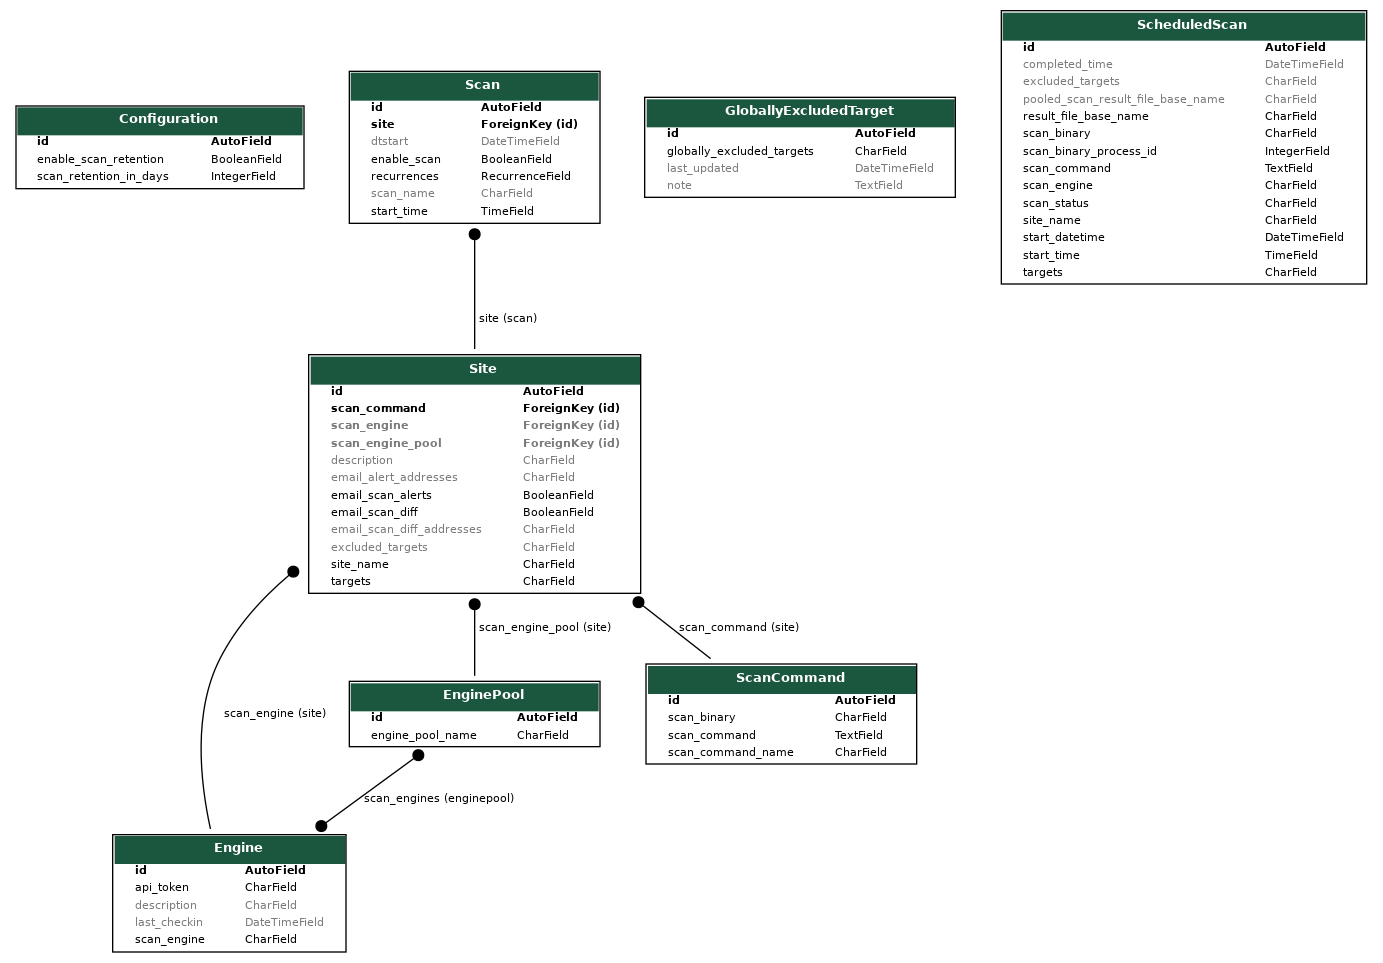
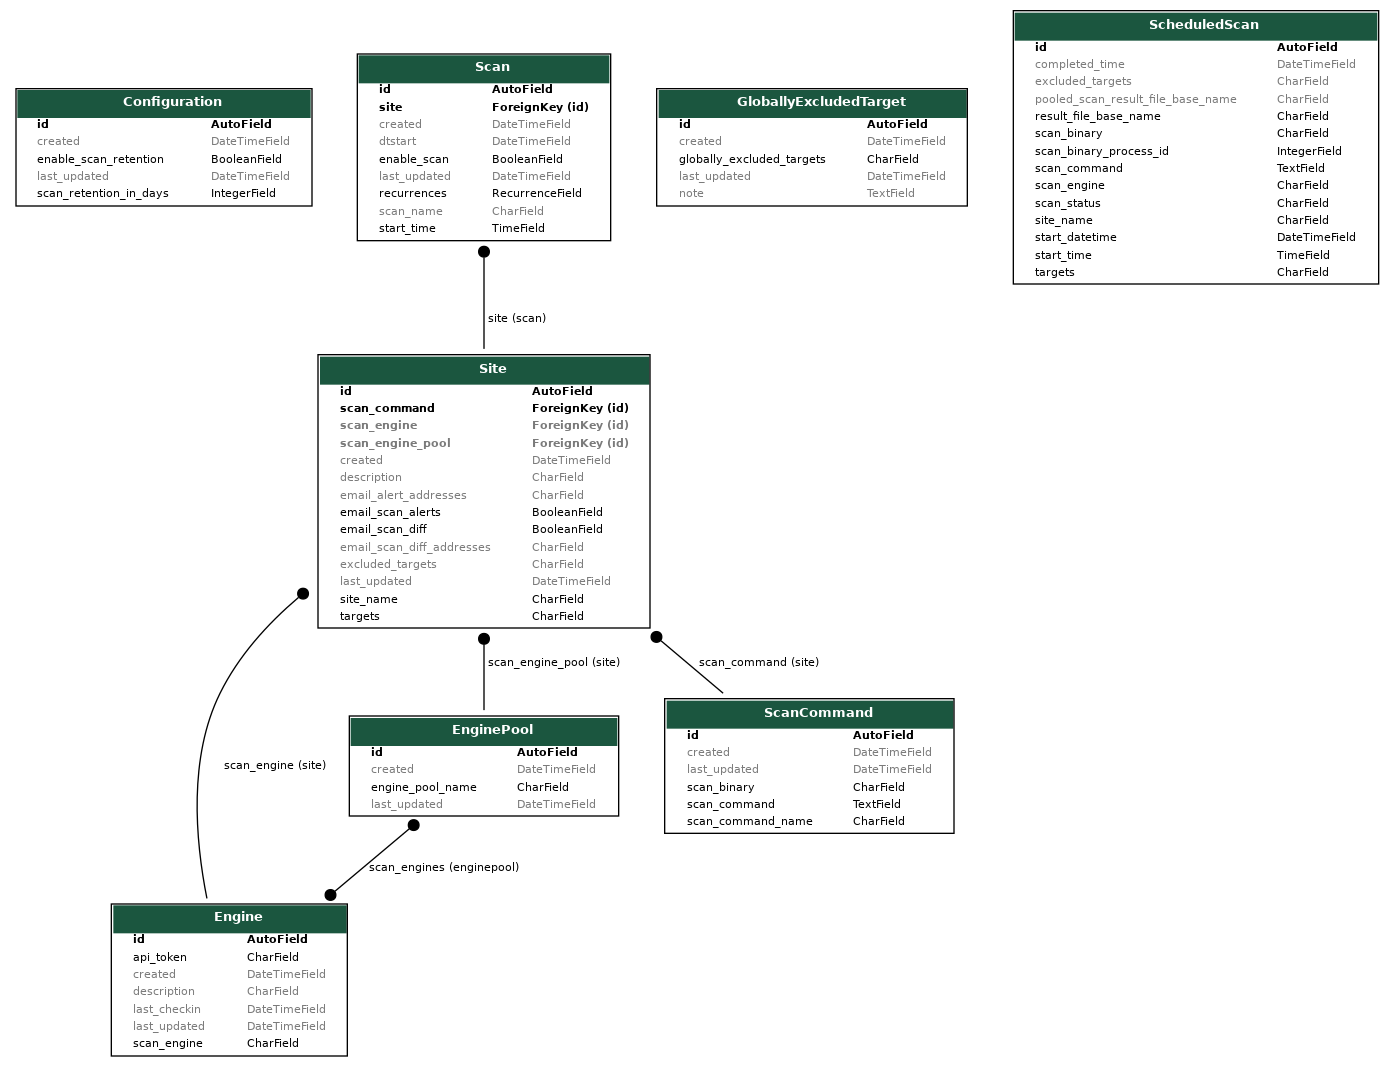
Added created and last_updated fields to most models

Changed region(s): [[0.0, 0.0312, 0.684, 0.9969], [0.4664, 0.0, 0.9949, 0.3115], [0.1555, 0.6231, 0.1866, 0.6542]]

diff --git a/console/django_scantron/models.py b/console/django_scantron/models.py
@@ -37,6 +37,8 @@ class Configuration(models.Model):
         verbose_name="Scan retention in days",
         help_text="The number of days to retain scan data, target files, and scan result files.",
     )
+    created = models.DateTimeField(auto_now_add=True)
+    last_updated = models.DateTimeField(auto_now=True, verbose_name="Last updated")
 
     class Meta:
         verbose_name_plural = "Configuration"
@@ -63,6 +65,8 @@ class Engine(models.Model):
     description = models.CharField(unique=False, max_length=255, blank=True, verbose_name="Engine Description")
     api_token = models.CharField(unique=True, max_length=40, blank=False, verbose_name="API Key")
     last_checkin = models.DateTimeField(blank=True, null=True, verbose_name="Last Engine Check In")
+    created = models.DateTimeField(auto_now_add=True)
+    last_updated = models.DateTimeField(auto_now=True, verbose_name="Last updated")
 
     def __str__(self):
         return str(self.scan_engine)
@@ -77,6 +81,8 @@ class EnginePool(models.Model):
     id = models.AutoField(primary_key=True, verbose_name="Engine Pool ID")
     engine_pool_name = models.CharField(unique=True, max_length=255, verbose_name="Engine Pool Name")
     scan_engines = models.ManyToManyField(Engine, verbose_name="Scan engines in pool")
+    created = models.DateTimeField(auto_now_add=True)
+    last_updated = models.DateTimeField(auto_now=True, verbose_name="Last updated")
 
     def __str__(self):
         return str(self.engine_pool_name)
@@ -94,7 +100,7 @@ class GloballyExcludedTarget(models.Model):
     # is changed.
     globally_excluded_targets = models.CharField(
         unique=False,
-        max_length=4194304,  # 2^22 = 4194304.  See note above if this value is changed.
+        max_length=4_194_304,  # 2^22 = 4194304.  See note above if this value is changed.
         validators=[
             RegexValidator(
                 regex="^[a-zA-Z0-9/\.\:\- ]*$",  # Characters to support IPv4, IPv6, and FQDNs only.  Space delimited.
@@ -104,6 +110,7 @@ class GloballyExcludedTarget(models.Model):
         verbose_name="Globally Excluded Targets",
     )
     note = models.TextField(unique=False, blank=True, verbose_name="Note")
+    created = models.DateTimeField(auto_now_add=True)
     last_updated = models.DateTimeField(auto_now=True, verbose_name="Last updated")
 
     def clean(self):
@@ -142,6 +149,8 @@ class ScanCommand(models.Model):
     scan_binary = models.CharField(max_length=7, choices=SCAN_BINARY, default="nmap", verbose_name="Scan binary")
     scan_command_name = models.CharField(unique=True, max_length=255, verbose_name="Scan command name")
     scan_command = models.TextField(unique=False, verbose_name="Scan command")
+    created = models.DateTimeField(auto_now_add=True)
+    last_updated = models.DateTimeField(auto_now=True, verbose_name="Last updated")
 
     def __str__(self):
         return f"{self.scan_binary}||{self.scan_command_name}"
@@ -171,7 +180,7 @@ class Site(models.Model):
     # is changed.
     targets = models.CharField(
         unique=False,
-        max_length=4194304,  # 2^22 = 4194304.  See note above if this value is changed.
+        max_length=4_194_304,  # 2^22 = 4194304.  See note above if this value is changed.
         validators=[
             RegexValidator(
                 regex="^[a-zA-Z0-9/\.\:\- ]*$",  # Characters to support IPv4, IPv6, and FQDNs only.  Space delimited.
@@ -186,7 +195,7 @@ class Site(models.Model):
     excluded_targets = models.CharField(
         unique=False,
         blank=True,
-        max_length=4194304,  # 2^22 = 4194304.  See note above if this value is changed.
+        max_length=4_194_304,  # 2^22 = 4194304.  See note above if this value is changed.
         validators=[
             RegexValidator(
                 regex="^[a-zA-Z0-9/\.\:\- ]*$",  # Characters to support IPv4, IPv6, and FQDNs only.  Space delimited.
@@ -210,6 +219,8 @@ class Site(models.Model):
     email_scan_diff_addresses = models.CharField(
         unique=False, blank=True, max_length=4096, verbose_name="Email nmap scan diff addresses, comma separated"
     )
+    created = models.DateTimeField(auto_now_add=True)
+    last_updated = models.DateTimeField(auto_now=True, verbose_name="Last updated")
 
     def clean(self):
         """Checks for any invalid IPs, IP subnets, or FQDNs in the targets and excluded_targets fields."""
@@ -288,6 +299,8 @@ class Scan(models.Model):
         null=True,
         verbose_name="dtstart is the seed datetime object for recurrences (automatically modifed)",
     )
+    created = models.DateTimeField(auto_now_add=True)
+    last_updated = models.DateTimeField(auto_now=True, verbose_name="Last updated")
 
     # dtstart is the seed datetime object when determining scan_scheduler.py's
     # scan_occurrences = scan.recurrences.between(beginning_of_today, end_of_today, dtstart=dtstart, inc=True),
@@ -362,7 +375,7 @@ class ScheduledScan(models.Model):
     # is changed.
     targets = models.CharField(
         unique=False,
-        max_length=4194304,  # 2^22 = 4194304.  See note above if this value is changed.
+        max_length=4_194_304,  # 2^22 = 4194304.  See note above if this value is changed.
         validators=[
             RegexValidator(
                 regex="^[a-zA-Z0-9/\.\: ]*$",  # Characters to support IPv4, IPv6, and FQDNs only.  Space delimited.
@@ -377,7 +390,7 @@ class ScheduledScan(models.Model):
     excluded_targets = models.CharField(
         unique=False,
         blank=True,
-        max_length=4194304,  # 2^22 = 4194304.  See note above if this value is changed.
+        max_length=4_194_304,  # 2^22 = 4194304.  See note above if this value is changed.
         validators=[
             RegexValidator(
                 regex="^[a-zA-Z0-9/\.\: ]*$",  # Characters to support IPv4, IPv6, and FQDNs only.  Space delimited.

diff --git a/console/django_scantron/api/serializers.py b/console/django_scantron/api/serializers.py
@@ -20,19 +20,19 @@ import email_validation_utils
 class ConfigurationSerializer(serializers.ModelSerializer):
     class Meta:
         model = Configuration
-        fields = ("id", "enable_scan_retention", "scan_retention_in_days")
+        fields = ("id", "enable_scan_retention", "scan_retention_in_days", "created", "last_updated")
 
 
 class EngineSerializer(serializers.ModelSerializer):
     class Meta:
         model = Engine
-        fields = ("id", "scan_engine", "description", "api_token", "last_checkin")
+        fields = ("id", "scan_engine", "description", "api_token", "last_checkin", "created", "last_updated")
 
 
 class EnginePoolSerializer(serializers.ModelSerializer):
     class Meta:
         model = EnginePool
-        fields = ("id", "engine_pool_name", "scan_engines")
+        fields = ("id", "engine_pool_name", "scan_engines", "created", "last_updated")
 
 
 class GloballyExcludedTargetSerializer(serializers.ModelSerializer):
@@ -62,18 +62,13 @@ class GloballyExcludedTargetSerializer(serializers.ModelSerializer):
 
     class Meta:
         model = GloballyExcludedTarget
-        fields = ("id", "globally_excluded_targets", "note", "last_updated")
+        fields = ("id", "globally_excluded_targets", "note", "created", "last_updated")
 
 
 class ScanCommandSerializer(serializers.ModelSerializer):
     class Meta:
         model = ScanCommand
-        fields = (
-            "id",
-            "scan_binary",
-            "scan_command_name",
-            "scan_command",
-        )
+        fields = ("id", "scan_binary", "scan_command_name", "scan_command", "created", "last_updated")
 
 
 class SiteSerializer(serializers.ModelSerializer):
@@ -164,24 +159,15 @@ class SiteSerializer(serializers.ModelSerializer):
             "email_alert_addresses",
             "email_scan_diff",
             "email_scan_diff_addresses",
+            "created",
+            "last_updated",
         )
 
 
 class ScanSerializer(serializers.ModelSerializer):
-    # nested relationship
-    # http://www.django-rest-framework.org/api-guide/relations/#nested-relationships
-    # site = SiteSerializer(many=False)
-
     class Meta:
         model = Scan
-        fields = (
-            "id",
-            "site",
-            "scan_name",
-            "enable_scan",
-            "start_time",
-            "recurrences",
-        )
+        fields = ("id", "site", "scan_name", "enable_scan", "start_time", "recurrences", "created", "last_updated")
 
 
 class ScheduledScanSerializer(serializers.ModelSerializer):

diff --git a/console/django_scantron/admin.py b/console/django_scantron/admin.py
@@ -20,34 +20,34 @@ class SessionAdmin(admin.ModelAdmin):
 
 class ConfigurationAdmin(admin.ModelAdmin):
 
-    list_display = ("id", "enable_scan_retention", "scan_retention_in_days")
+    list_display = ("id", "enable_scan_retention", "scan_retention_in_days", "created", "last_updated")
 
 
 class EngineAdmin(admin.ModelAdmin):
 
-    list_display = ("id", "scan_engine", "description", "api_token", "last_checkin")
+    list_display = ("id", "scan_engine", "description", "api_token", "last_checkin", "created", "last_updated")
     readonly_fields = ("id", "scan_engine", "api_token", "last_checkin")
 
 
 class EnginePoolAdmin(admin.ModelAdmin):
 
-    list_display = ("id", "engine_pool_name")
+    list_display = ("id", "engine_pool_name", "created", "last_updated")
 
 
 class GloballyExcludedTargetAdmin(admin.ModelAdmin):
 
-    list_display = ("id", "globally_excluded_targets", "note", "last_updated")
+    list_display = ("id", "globally_excluded_targets", "note", "created", "last_updated")
 
 
 class ScanCommandAdmin(admin.ModelAdmin):
 
-    list_display = ("id", "scan_binary", "scan_command_name", "scan_command")
+    list_display = ("id", "scan_binary", "scan_command_name", "scan_command", "created", "last_updated")
     list_filter = ("scan_binary",)
 
 
 class ScanAdmin(admin.ModelAdmin):
 
-    list_display = ("id", "site", "scan_name", "enable_scan", "start_time", "recurrences")
+    list_display = ("id", "site", "scan_name", "enable_scan", "start_time", "recurrences", "created", "last_updated")
     list_filter = ("enable_scan",)
     exclude = ("completed_time", "result_file_base_name", "dtstart")
 
@@ -67,6 +67,8 @@ class SiteAdmin(admin.ModelAdmin):
         "email_alert_addresses",
         "email_scan_diff",
         "email_scan_diff_addresses",
+        "created",
+        "last_updated",
     )
 
 

diff --git a/console/django_scantron/__init__.py b/console/django_scantron/__init__.py
@@ -1,1 +1,1 @@
-__version__ = "1.46.0"
+__version__ = "1.47.0"
